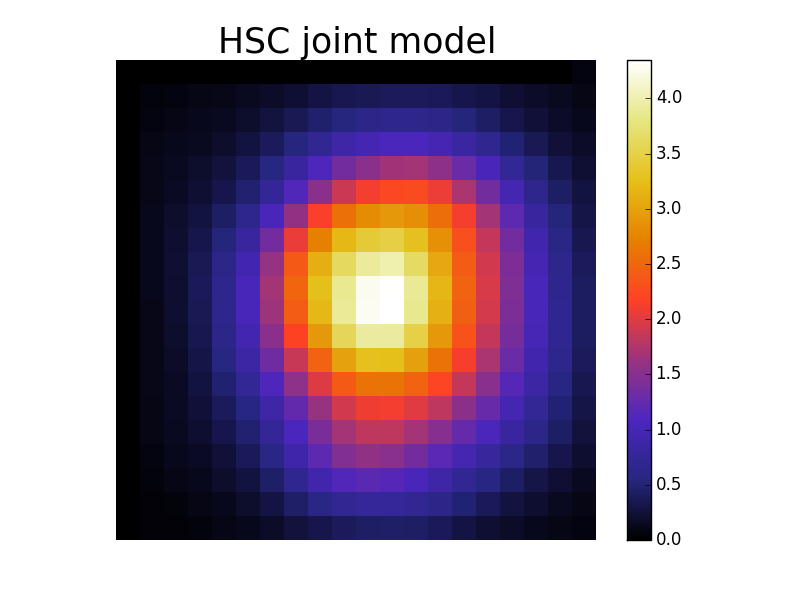
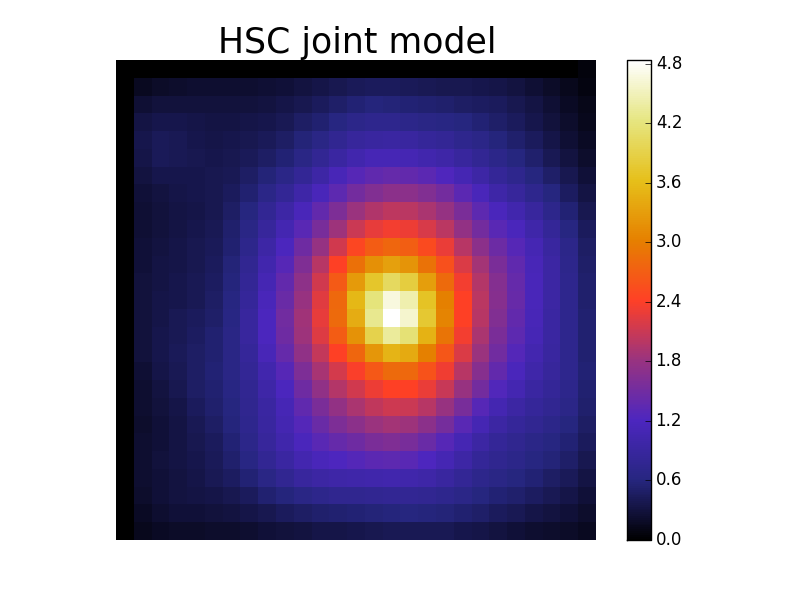
python2.7

diff --git a/HSTC.py b/HSTC.py
@@ -69,16 +69,17 @@ plt.show()
 
 
 #HST coordinates
+###########works
+x0 = 5388-6 #9132
+y0 = 14579#10825
+excess =75
+xstart =x0-excess
+xstop =x0+excess
+ystart =y0-excess
+ystop =y0+excess
 
-x0 = 9132
-y0 =10825
-xstart =x0-55
-xstop =x0+55
-ystart =y0-55
-ystop =y0+55
-
-XX = np.linspace(xstart,  xstop,111)#np.linspace(3810,3960,151)#np.linspace(10270,10340,71)#np.linspace(5170,5220,51)#XX = np.linspace(8485,8635,151)#
-YY = np.linspace(ystart, ystop,111)#np.linspace(7170,7320, 151)#np.linspace(4370,4440,71)#np.linspace(172,222,51)#YY = np.linspace(9500,9650, 151)
+XX = np.linspace(xstart,  xstop,2*excess+1)#np.linspace(3810,3960,151)#np.linspace(10270,10340,71)#np.linspace(5170,5220,51)#XX = np.linspace(8485,8635,151)#
+YY = np.linspace(ystart, ystop,2*excess+1)#np.linspace(7170,7320, 151)#np.linspace(4370,4440,71)#np.linspace(172,222,51)#YY = np.linspace(9500,9650, 151)
 x,y = np.meshgrid(XX,YY)
 x_HST = x.flatten().astype(int)
 y_HST = y.flatten().astype(int)
@@ -145,31 +146,32 @@ lists.writeto('../HS_TC/Cut_HSC.fits', clobber=True)
 
 xp,yp = np.where(PSF_HST*0 == 0)
 
-if 0:
+compute = 0
+if compute:
     print('Computing Low Resolution matrix')
     mat_HSC = tools.make_mat2D_fft(x_HST, y_HST, X_HST, Y_HST, PSF_HSC_data_HR)
 
     hdus = fits.PrimaryHDU(mat_HSC)
     lists = fits.HDUList([hdus])
-    lists.writeto('../HS_TC/Mat_HSC71.fits', clobber=True)
+    lists.writeto('../HS_TC/Mat_HSC_'+str(n1)+'.fits', clobber=True)
 
     print('Computing High Resolution matrix')
     mat_HST = tools.make_mat2D_fft(x_HST, y_HST, x_HST, y_HST, PSF_HST)
 
     hdus = fits.PrimaryHDU(mat_HST)
     lists = fits.HDUList([hdus])
-    lists.writeto('../HS_TC/Mat_HST71.fits', clobber=True)
+    lists.writeto('../HS_TC/Mat_HST_'+str(n1)+'.fits', clobber=True)
 
-
-mat_HSC = fits.open('../HS_TC/Mat_HSC71.fits')[0].data
-mat_HST = fits.open('../HS_TC/Mat_HST71.fits')[0].data
+if np.abs(compute-1):
+    mat_HSC = fits.open('../HS_TC/Mat_HSC_'+str(n1)+'.fits')[0].data
+    mat_HST = fits.open('../HS_TC/Mat_HST_'+str(n1)+'.fits')[0].data
 
 def filter_HR(x):
     return scarlet.transformation.LinearFilter(mat_HST[:,np.int(n1*n1/2)].reshape(n1,n2)).dot(x)
 def filter_HRT(x):
     return scarlet.transformation.LinearFilter(mat_HST[np.int(n1*n1/2),:].reshape(n1,n2).T).dot(x)
 
-niter = 350
+niter = 50
 Sall, SHR, SLR = tools.Combine2D_filter(cut_HST, cut_HSC.flatten(), filter_HR, filter_HRT, mat_HSC, niter, verbosity = 1)
 #Sall, SHR, SLR = tools.Combine2D(cut_HST.flatten(), cut_HSC.flatten(), mat_HST, mat_HSC, niter, verbosity = 1)
 
